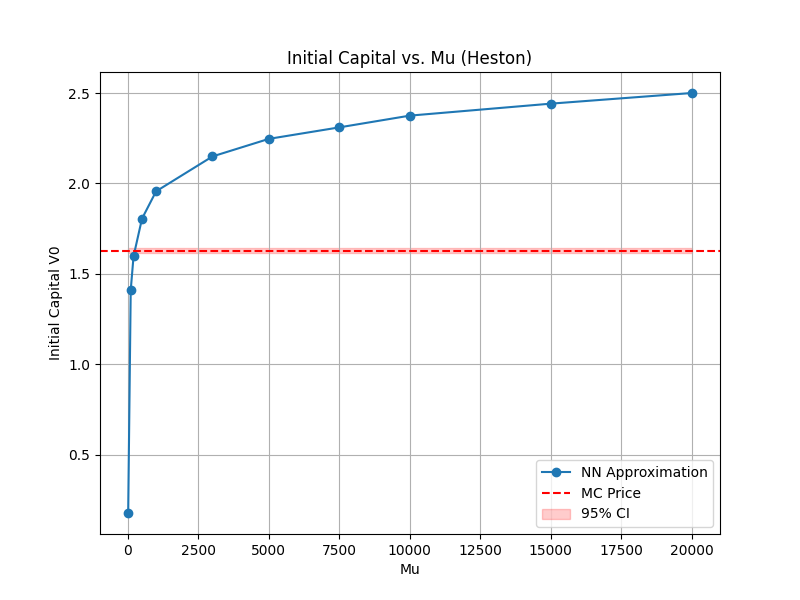
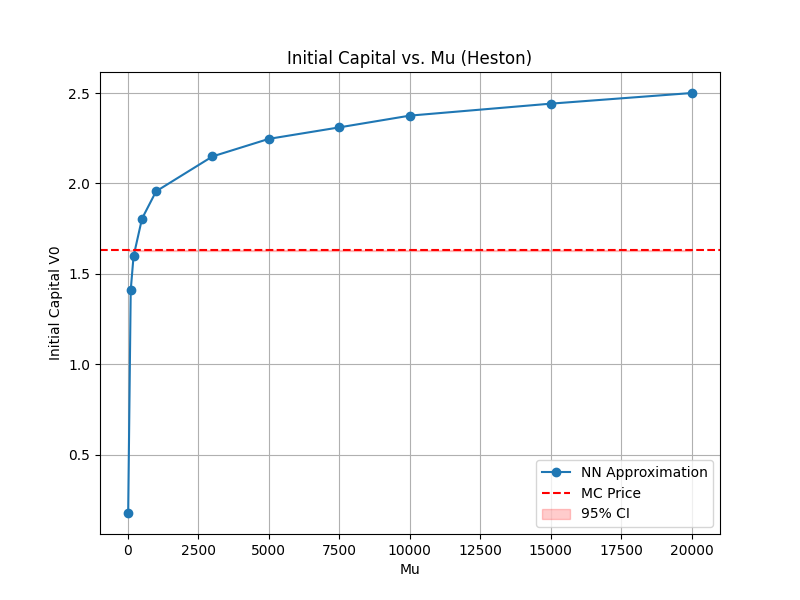
Update 21:54

Changed region(s): [[0.1562, 0.39, 0.875, 0.45]]

diff --git a/evaluation/bs_eval_across_mu.py b/evaluation/bs_eval_across_mu.py
@@ -79,14 +79,6 @@ for mu in mu_values:
 
 # ---------- Plots ----------
 plt.figure(figsize=(8, 6))
-plt.plot(mu_values[:len(V0_list)], V0_list, marker='o')
-plt.xlabel("Mu (penalty weight)")
-plt.ylabel("Initial Capital V0")
-plt.title("Initial Capital vs. Mu")
-plt.grid(True)
-plt.savefig(os.path.join(plot_dir, "v0_vs_mu.png"))
-
-plt.figure(figsize=(8, 6))
 plt.plot(mu_values[:len(prob_success_list)], prob_success_list, marker='o')
 plt.xlabel("Mu (penalty weight)")
 plt.ylabel("Success Probability")
@@ -132,3 +124,15 @@ sigma = 0.1
 T = 30 / 250
 bs_price = bs_call_price(S0, K, T, sigma)
 print(f"📌 Black-Scholes price for the call: {bs_price:.4f}")
+
+# --- Plot Initial Capital vs Mu with BS Benchmark ---
+plt.figure(figsize=(8, 6))
+plt.plot(mu_values[:len(V0_list)], V0_list, marker='o', label="NN Approximation")
+plt.axhline(y=bs_price, color='red', linestyle='--', label=f"BS Benchmark ({bs_price:.2f})")
+plt.xlabel("Mu (penalty weight)")
+plt.ylabel("Initial Capital $V_0$")
+plt.title("Initial Capital vs. Mu")
+plt.legend()
+plt.grid(True)
+plt.tight_layout()
+plt.savefig(os.path.join(plot_dir, "v0_vs_mu.png"))

diff --git a/evaluation/trinomial_eval_across_mu.py b/evaluation/trinomial_eval_across_mu.py
@@ -78,11 +78,14 @@ for mu in mu_values:
 
 # ---------- Plots ----------
 plt.figure(figsize=(8, 6))
-plt.plot(mu_values[:len(V0_list)], V0_list, marker='o')
+plt.plot(mu_values[:len(V0_list)], V0_list, marker='o', label="NN Approximation")
+plt.axhline(y=2.17, color='red', linestyle='--', label="MC Benchmark (2.17)")
 plt.xlabel("Mu (penalty weight)")
-plt.ylabel("Initial Capital V0")
+plt.ylabel("Initial Capital $V_0$")
 plt.title("Initial Capital vs. Mu (Trinomial)")
+plt.legend()
 plt.grid(True)
+plt.tight_layout()
 plt.savefig(os.path.join(plot_dir, "v0_vs_mu_trinomial.png"))
 
 plt.figure(figsize=(8, 6))

diff --git a/evaluation/heston_eval_across_mu.py b/evaluation/heston_eval_across_mu.py
@@ -64,7 +64,7 @@ for mu in mu_values:
     prob_success_list.append(success_prob)
 
     # Plot distribution
-    plt.figure(figsize=(6, 4))
+    plt.figure(figsize=(8, 6))
     plt.hist(portfolio - H, bins=50)
     plt.title(f"Portfolio - Barrier Payoff, mu = {mu}")
     plt.xlabel("Portfolio - H")
